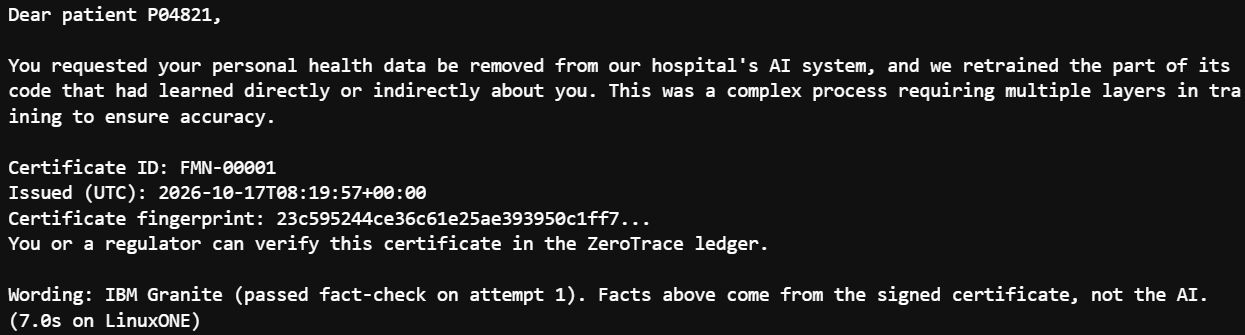
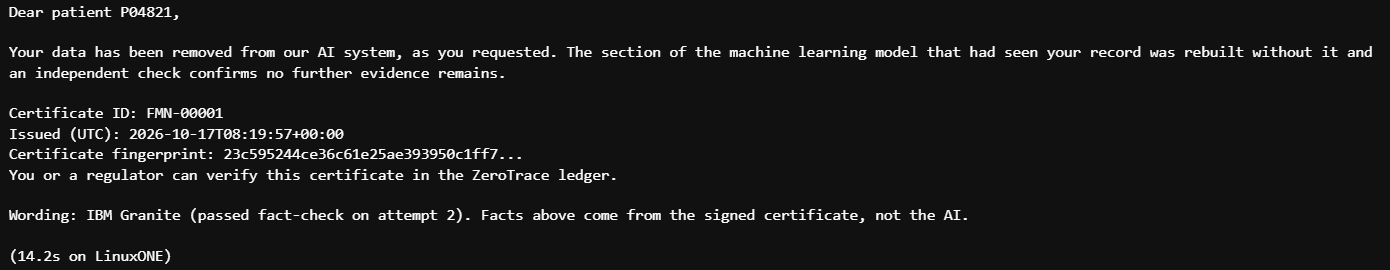
Add files via upload

diff --git a/README.md b/README.md
@@ -55,7 +55,7 @@ flowchart LR
 After each deletion, IBM Granite (the same Granite model and llama.cpp + IBM zDNN loader as the Loan Approval lab) writes a plain-language explanation for the patient. Small language models can get facts wrong; in our first test Granite wrote that the data was "not deleted". So ZeroTrace never lets the model touch facts:
 
 1. Granite gets **no numbers**, only the task and two example explanations.
-2. Every draft is **fact-checked**: drafts containing numbers or phrases such as "not deleted", "still" or "reduced" are rejected (up to 3 attempts).
+2. Every draft is **fact-checked**: drafts containing numbers, contradictions ("not deleted", "still", "reduced") or invented technical claims ("layers", "complex process") are rejected, and a draft must state that the data was removed (up to 3 attempts). We tightened this after the first guardrail let through "a complex process requiring multiple layers in training"; in the final run, Granite's first draft was rejected and its second passed.
 3. If every draft fails, a **pre-approved explanation** is used, and the letter says so.
 4. Certificate ID, date and fingerprint are inserted **by code from the signed certificate**.
 
@@ -68,7 +68,7 @@ Measured on our LinuxONE Community Cloud instance:
 ![Platform check: s390x, IBM z17, CPACF yes, NNPA yes, SHA-256 4336 MB/s](platform_check.png)
 
 - **IBM z17 (machine type 9175).** The whole pipeline (training, audit, unlearning, certificates, dashboard) runs on it.
-- **CPACF on-chip cryptography:** SHA-256, the hash behind every model fingerprint and certificate, runs at **4,336 MB/s**.
+- **CPACF on-chip cryptography** is present, and SHA-256, the hash behind every model fingerprint and certificate, runs at **4,336 MB/s**, far above typical software-only speed and consistent with CPACF acceleration.
 - **Telum II on-chip AI accelerator (NNPA):** using IBM Snap ML, a ZeroTrace slice model was compiled to `zdnn_tensors` and scored **5,000 patients in 36.2 ms** on the accelerator.
 
 ![Snap ML on Telum II: inference engine zdnn_tensors, 5000 patients in 36.2 ms](telum_snapml.png)
@@ -103,13 +103,14 @@ Both prerequisite labs (Predictive AI hybrid multi-model, and Predictive AI + Ge
 - The patient data is **synthetic**; no real records were used. The method is unchanged on real data.
 - The model must be **built in slices from the start**; an existing single model cannot be retrofitted.
 - The audit is **strong statistical evidence**, not a mathematical guarantee. The retrained slice itself never saw the patient, so their influence is removed by design.
-- Tested with random forests. Neural networks and larger slice counts are next.
+- Tested with random forests. Fully grown trees memorize their training rows, which is exactly the privacy risk the audit measures; models that memorize less are harder to detect, which is why ZeroTrace also retrains the slice so removal holds by design.
+- The hash chain exposes any edited certificate, but the issuer could rebuild the whole chain. Production would sign each certificate with keys held in an IBM Z hardware security module.
 
 ## Next steps
 
 - Extend to neural networks and more slices for faster forgetting.
 - Move the full audit pipeline onto Telum II (one slice model already runs there via Snap ML).
-- Protect the ledger with IBM Secure Execution for Linux.
+- Sign every certificate with IBM Z hardware security module keys, so even the issuer cannot forge or rebuild the chain.
 - Pilot on a real, consented dataset.
 
 ## Open-source resources
